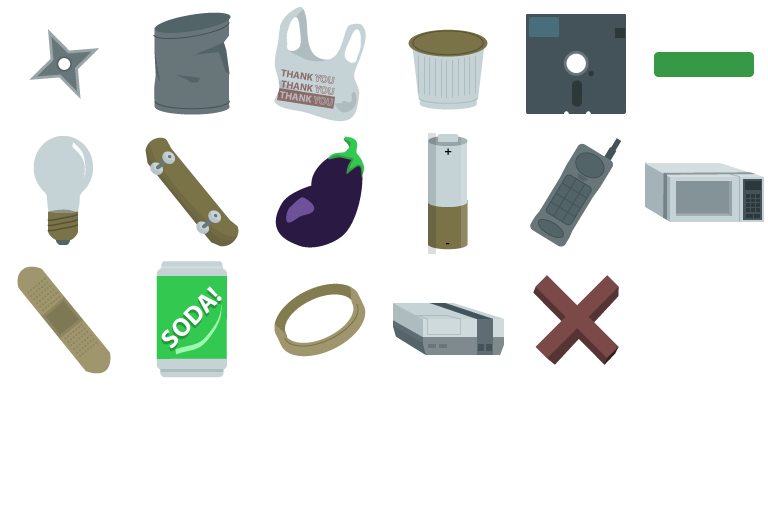
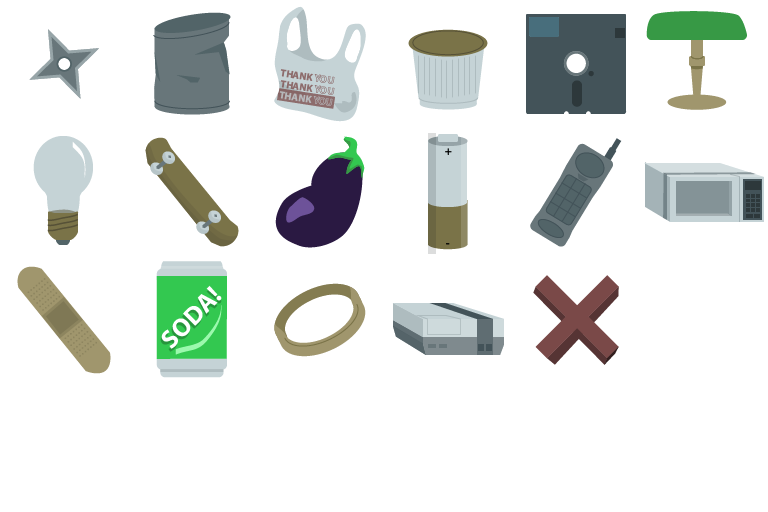
Inventory Drop WORKS!!!
ffs

Changed region(s): [[0.8438, 0.0, 1.0, 0.2188], [0.375, 0.125, 0.4375, 0.2188], [0.2188, 0.5938, 0.25, 0.6562]]

diff --git a/src/sprites/Item.js b/src/sprites/Item.js
@@ -4,7 +4,7 @@ import Phaser from 'phaser'
 
 export class Item extends Phaser.Group {
 
-  constructor ({ game, x, y, indices, name, description, powerTier, invIndex }) {
+  constructor ({ game, x, y, indices, name, description, powerTier, invIndex, animate, animX, animY }) {
 
     // Should this be a button using an inventory slot
     if((x === undefined || y === undefined) && invIndex !== undefined) {
@@ -30,50 +30,66 @@ export class Item extends Phaser.Group {
     this.indices = indices
 
     // Make sprite(s)
-    for(let i=0; i<indices.length; i++) {
-      let sprite = new Phaser.Sprite(game, x, y, 'item-sprites', indices[i])
+    if(invIndex === undefined) {
+      for(let i=0; i<indices.length; i++) {
+        let sprite = new Phaser.Sprite(game, x, y, 'item-sprites', indices[i])
+        sprite.anchor.set(0.5, 0.5)
+        sprite.scale.setTo(0.45, 0.45)
+        this.game.physics.arcade.enable(sprite)
+        sprite.fixedToCamera = true
+        this.sprites.push(sprite)
+        this.addChild(sprite)
+      }
+    } else {
+      // Make sprite (should only ever be one)
+      if(animate == Item.DROP_FROM_TOP) {
+        x = Item.INVENTORY_START.x
+        y = Item.INVENTORY_START.y
+      } else if(animate == Item.DROP_FROM_GIVEN) {
+        x = animX
+        y = animY
+      }
+
+      let sprite = new Phaser.Sprite(game, x, y, 'item-sprites', indices[0])
       sprite.anchor.set(0.5, 0.5)
       sprite.scale.setTo(0.45, 0.45)
       this.game.physics.arcade.enable(sprite)
       sprite.fixedToCamera = true
       this.sprites.push(sprite)
       this.addChild(sprite)
-    }
 
-    // Make inventory button
-    if(invIndex !== null) {
       // Make close button
-      this.closeBtn = this.game.add.button(x + 20, y - 40, 'close-btn-sheet',
+      this.closeBtn = this.game.add.button(this.baseX + 20, this.baseY - 40, 'close-btn-sheet',
             onBtnClose, this, 2, 0, 1, 0)
       this.closeBtn.scale.set(0.333)
       this.closeBtn.fixedToCamera = true
       this.addChild(this.closeBtn)
 
       // Make index number
-      if(invIndex != null) {
-        this.invIndex = invIndex
-        this.number = this.game.add.text(x - 40, y - 15, invIndex,
-          { font: 'Courier', fontSize: 24 })
-        this.number.fixedToCamera = true
-        this.addChild(this.number)
-      }
+      this.invIndex = invIndex
+      this.number = this.game.add.text(this.baseX - 40, this.baseY - 15, invIndex,
+        { font: 'Courier', fontSize: 24 })
+      this.number.fixedToCamera = true
+      this.addChild(this.number)
+
+      if(animate !== undefined) { this.makeDrop() }
     }
 
     // this.filters = [ new Glow(game) ]
   }
 
-  shiftUp() {
-    console.info('shifting up ' + this.invIndex)
-    if(this.invIndex > 0) {
-      this.invIndex--
-      this.number.setText(this.invIndex)
+  makeDrop() {
+    // Animate falling item
+    this.closeBtn.visible = false
+    this.number.visible = false
 
-      this.closeBtn.cameraOffset.y = this.closeBtn.cameraOffset.y - 75
-      this.number.cameraOffset.y -= 75
-      for(let i in this.sprites) {
-        this.sprites[i].cameraOffset.y -= 75
-      }
-    }
+    var itemDropTween = this.game.add.tween(this.sprites[0].cameraOffset).to(
+      { x: this.baseX, y: this.baseY }, 500, Phaser.Easing.Bounce.Out, true)
+
+    itemDropTween.onComplete.add(() => {
+      this.closeBtn.visible = true
+      this.number.visible = true
+    }, this)
   }
 
   update () {
@@ -107,43 +123,40 @@ export class Item extends Phaser.Group {
       description: this.description, invIndex: this.invIndex
     })
   }
-
-  copyDecriment (x, y) {
-    return new Item({
-      game: this.game, x: x, y: y,
-      indices: this.indices, name: this.name,
-      description: this.description, invIndex: this.invIndex-1
-    })
-  }
 }
 
 function onBtnClose(itmButton) {
-  let inventory = game.ui.inventory
-  let removeIndex = itmButton.parent.index
-
-  for(let i=0; i<inventory.length - 1; i++) {
+  let removeIndex = itmButton.parent.invIndex
+  for(let i=0; i<game.ui.inventory.length - 1; i++) {
     if(i >= removeIndex) {
-      inventory[i] = inventory[i+1];
+      game.ui.inventory[i] = game.ui.inventory[i+1]
     }
   }
 
-  inventory.pop();
-
+  game.ui.inventory.pop();
+  game.ui.inventoryNeedsUpdate = true
 }
 
 // Static class members
 Item.INVENTORY_SLOTS = []
 Item.INVENTORY_MAX = 8
+Item.INVENTORY_START = {}
+
+Item.DROP_FROM_TOP = 0
+Item.DROP_FROM_GIVEN = 1
 
 // Initialize static properties
 Item.init = (itemTileset) => {
 
   // Build inventory slot coordinates
-  for(let i=1; i<=8; i++) {
+  for(let i=8; i>=1; i--) {
     Item.INVENTORY_SLOTS.push(
       new Phaser.Point(game.width - 50, game.height / 2 + 75*(i-4) - 35)
     )
   }
+
+  // Start at the top of the inventory
+  Item.INVENTORY_START = Item.INVENTORY_SLOTS[Item.INVENTORY_MAX-1];
 
   // Build item list from TILED info
   let tileProps = itemTileset.tileProperties;
@@ -166,30 +179,55 @@ Item.init = (itemTileset) => {
   // Build reverse lookup arrays
   Item.ITEM_BY_NAME = {}
   Item.ITEM_BY_GLOBAL_ID = {}
+  Item.ITEM_BY_POWER_TIER = {}
   for(let i in Item.ITEM_ARRAY) {
     Item.ITEM_BY_NAME[Item.ITEM_ARRAY[i].name] = Item.ITEM_ARRAY[i]
     Item.ITEM_BY_GLOBAL_ID[Item.ITEM_ARRAY[i].globalID] = Item.ITEM_ARRAY[i]
-  }
 
-  console.info(Item.TILE_INDEX_LIST)
-  console.info(Item.ITEM_BY_NAME)
-  console.info(Item.ITEM_BY_GLOBAL_ID)
-};
+    if(Item.ITEM_BY_POWER_TIER[Item.ITEM_ARRAY[i].globalID] === undefined) {
+      Item.ITEM_BY_POWER_TIER[Item.ITEM_ARRAY[i].globalID] = new Array()
+    }
+    Item.ITEM_BY_POWER_TIER[Item.ITEM_ARRAY[i].globalID].push(Item.ITEM_ARRAY[i])
+  }
+}
 
 // Build a new Item from its name (as specified in the Tiled file)
-Item.makeFromName = ({ game, name, x, y, invIndex }) => {
+Item.makeFromName = ({ game, name, x, y, invIndex, animate }) => {
   let item = Item.ITEM_BY_NAME[name]
-  if(!item) { return null }
+  if(item === undefined) {
+    console.error(`Unknown item name (${name})`)
+    return null
+  }
 
-  return new Item({ game, x, y, invIndex, indices: [ item.tileID ],
+  return new Item({ game, x, y, invIndex, indices: [ item.tileID ], animate,
     name: item.name, description: item.description, powerTier: item.powerTier })
 }
 
 // Build a new Item from its ID (as specified in the Tiled file)
-Item.makeFromGlobalID = ({ game, id, x, y, invIndex }) => {
+Item.makeFromGlobalID = ({ game, id, x, y, invIndex, animate }) => {
   let item = Item.ITEM_BY_GLOBAL_ID[id]
-  if(!item) { return null }
+  if(item === undefined) {
+    console.error(`Unknown item global ID (${id})`)
+    return null
+  }
 
-  return new Item({ game, x, y, invIndex, indices: [ item.frameID ],
+  return new Item({ game, x, y, invIndex, indices: [ item.frameID ], animate,
+    name: item.name, description: item.description, powerTier: item.powerTier })
+}
+
+// Build a new Item from its power-tier plus an index
+Item.makeFromPowerTier = ({ game, powerTier, index, x, y, invIndex, animate }) => {
+  if(Item.ITEM_BY_POWER_TIER[powerTier] === undefined) {
+    console.error(`Unknown item power tier (${powerTier})`)
+    return null
+  }
+
+  let item = Item.ITEM_BY_POWER_TIER[powerTier][index]
+  if(item === undefined) {
+    console.error(`Unknown item power tier index (${powerTier}[${index}])`)
+    return null
+  }
+
+  return new Item({ game, x, y, invIndex, indices: [ item.frameID ], animate,
     name: item.name, description: item.description, powerTier: item.powerTier })
 }

diff --git a/src/states/Game.js b/src/states/Game.js
@@ -61,12 +61,10 @@ export default class extends Phaser.State {
     this.tilemap.setCollisionByExclusion([0], true, 'enemy_spawns')
     this.tilemap.setTileIndexCallback(Item.TILE_INDEX_LIST, this.itemTrigger, this, 'interact')
 
+    // Initialize A* pathfinding
     this.pathfinder = new Pathfinder(this.tilemap.width, this.tilemap.height)
 
     // Load and build music loop
-    // this.tilemap.setTileIndexCallback([65], this.itemTrigger, this, 'interact')
-    // this.tilemap.setTileIndexCallback(this.itemIndexList, this.itemTrigger, this, 'interact')
-
     this.musicIntro = this.game.add.audio('BGM-intro')
     this.musicLoop = this.game.add.audio('BGM-loop')
     this.musicLoop.loop = true
@@ -83,7 +81,7 @@ export default class extends Phaser.State {
     // player setup
     this.player = new Player({
       game: this.game,
-      x: 128 + 64, y: this.tilemap.heightInPixels - 512 + 64
+      x: 128 + 64, y: this.tilemap.heightInPixels - 640 + 64
     })
     this.game.add.existing(this.player)
     this.game.camera.follow(this.player)
@@ -185,20 +183,7 @@ export default class extends Phaser.State {
 
     return {
       uiLayer: ui_group, inventoryLayer: inventory_group,
-      inventory: [], microwave: this.microwave
-    }
-  }
-
-  updateInventory() {
-    this.game.ui.inventoryLayer.destroy();
-    this.game.ui.inventoryLayer = this.game.add.group()
-
-    for(let i in this.game.ui.inventory) {
-      let newItem = Item.makeFromGlobalID({
-        game: this.game, id: this.game.ui.inventory[i], invIndex: i
-      })
-      this.game.add.existing(newItem)
-      this.game.ui.inventoryLayer.add(newItem)
+      inventory: [], inventoryNeedsUpdate: false, microwave: this.microwave
     }
   }
 
@@ -275,8 +260,36 @@ export default class extends Phaser.State {
   endCatwalkIntro () {
   }
 
+  updateInventory() {
+    this.game.ui.inventoryLayer.destroy();
+    this.game.ui.inventoryLayer = this.game.add.group()
+
+    for(let i in this.game.ui.inventory) {
+      let newItem = {}
+      if (i == this.game.ui.inventory.length - 1) {
+        newItem = Item.makeFromGlobalID({
+          game: this.game, id: this.game.ui.inventory[i],
+          invIndex: i, animate: Item.DROP_FROM_TOP
+        })
+      } else {
+        newItem = Item.makeFromGlobalID({
+          game: this.game, id: this.game.ui.inventory[i], invIndex: i
+        })
+      }
+
+      this.game.add.existing(newItem)
+      this.game.ui.inventoryLayer.add(newItem)
+    }
+
+    this.game.ui.inventoryNeedsUpdate = false
+  }
+
   update () {
     if (this.state == STATES.main) {
+      if(this.game.ui.inventoryNeedsUpdate) {
+        this.updateInventory()
+      }
+
       this.game.physics.arcade.collide(this.player, this.interact_layer)
       this.game.physics.arcade.overlap(this.player, this.enemies, this.triggerCatwalkStart, null, this)
 
